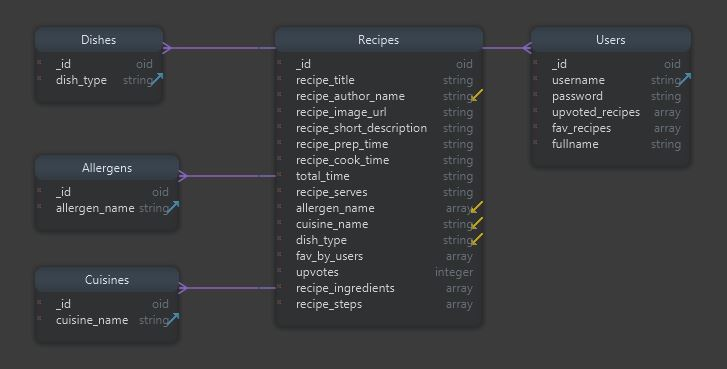
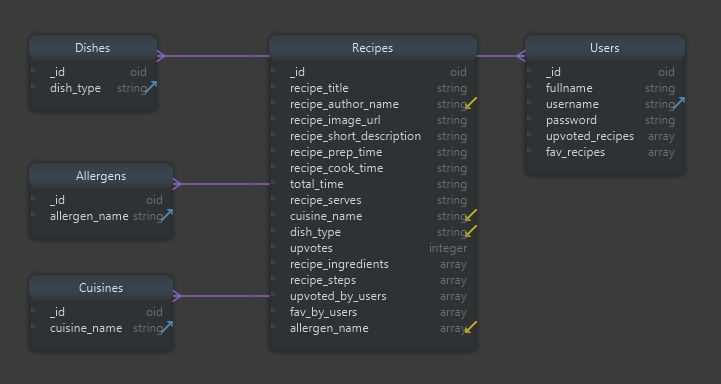
README.md file updated

diff --git a/README.md b/README.md
@@ -3,23 +3,238 @@ This website is my third Milestone project in Full Stack web developer course ru
 It is designed to serve as an online recipe book for the users where they can view, favourite and upvote other recipes. Moreover, they can
 add, edit and delete their own recipes.
 
+## Database Schema
+[Mongodb](https://mlab.com/) was used to create database for the website. The database designing process was based on
+two factors:
+* information to display on the website
+* queries required to display that information
+
+Some queries were easy to foresee and others came into light later on during the process of development. 
+As a result, the database kept evolving over time. For example, it was decided to change the look of *favourite* 
+and *thumbs up* icon for the users who have already favourited or upvoted a recipe. As a result of this need, 
+fields like 'fav_by_users' and 'upvoted_by_users' were added to the database.
+
+Final database schema diagram can be found in the folder **Database Schema > dbschema-cookbook.JPG**
+
+The final database schema consists of five collections recipes, users, allergens, cuisines and dishes. Details
+of each field is given below:
+
+###### Recipes
+
+    Recipes collection includes following fields:
+    
+    * _id (ID of the recipe)
+    * recipe_title (Title of recipe)
+    * recipe_author_name (Username who added the recipe to the website)
+    * recipe_image_url (Recipe image URL)
+    * recipe_short_description (Short description of recipe)
+    * recipe_prep_time (Preparation time for recipe)
+    * recipe_cook_time (Cooking time for recipe)
+    * total_time (Total time for recipe)
+    * recipe_serves (Recipe servings)
+    * allergen_name (List of all the allergens contained in the recipe)
+    * cuisine_name (Cuisine name e.g. English)
+    * dish_type (Type of dish e.g. Starter)
+    * recipe_ingredients (List of all ingredients with their measurements required for recipe)
+    * recipe_steps (List of all steps for making the recipe)
+    * upvotes (Number of upvotes for recipes)
+    * upvoted_by_users (List of usernames who upvoted the recipe)
+    * fav_by_users (List of usernames who favourited the recipe)
+
+###### Users
+
+    Users collection includes following fields:
+    
+    * _id (ID of the user)
+    * fullname (Full name of registered user)
+    * username (Username of registered user)
+    * password (Password of registered user)
+    * upvoted_recipes (List of recipe id's and title upvoted by user)
+    * fav_recipes (List of recipe id's and title favourited by user)
+  
+###### Dishes
+
+    Dishes collection includes following fields:
+    
+    * _id (ID of the dish type)
+    * dish_type (Type of dish e.g. Starter)
+    
+###### Cuisines
+
+    Cuisines collection includes following fields:
+    
+    * _id (ID of the cuisine name)
+    * cuisine_name (Cuisine name e.g. English)
+
+###### Allergens
+
+    Allergens collection includes following fields:
+    
+    * _id (ID of the allergen name)
+    * allergen_name (Allergen name e.g. Peanuts)
+
+
 ## UX
+Wireframes were created using *Pencil* software. 
+
+Wireframes can be found in the folder **Wireframes > cookbook-wireframe.pdf**.
+The wireframe only served as a starting point in building the website as the final website design 
+is quite different to the design in wireframe. 
+
+[Materializecss](http://archives.materializecss.com/0.100.2/) framework version 0.100.2 was used to design the website. 
+
+###### Register/Login Page
+The [tabs](http://archives.materializecss.com/0.100.2/tabs.html) structure of materializecss was used to design sign in
+and sign up forms. Placeholders are used for each input field.
+
+For good user experience, users are not forced to register to visit the website. They can explore the website as a guest user. 
+As a guest user, they have access to view recipes but do not have the privilege to upvote a recipe or add their own recipe until 
+they become a registered user.
+
+###### Navigation
+
+Materializecss [Navbar](http://archives.materializecss.com/0.100.2/navbar.html#right) is used for navigation.
+For good user experience:
+* [Mobile Collapse Button](http://archives.materializecss.com/0.100.2/navbar.html#mobile-collapse) for mobile view
+* [Dropdown Menu](http://archives.materializecss.com/0.100.2/navbar.html#navbar-dropdown) used for categories for filtering all recipes based on that category
+* [Search bar](http://archives.materializecss.com/0.100.2/navbar.html#search-docs) used for search by keywords
+* *Welcome, username* is displayedfor registered users.
+* On clicking, *Welcome, username* registered user has option to go to *My recipes*, *Favourite recipes* and *Logout*
+* Sign in and Sign up is displayed for guest users.
+* Clicking, on *sign in* takes the user to login page with *sign in* tab active.
+* Clicking on *sign up* takes the user to login page with *sign up* tab active
+
+###### Home Page
+Home page displays all available recipes on the website.
+For good user experience following features are added:
+* [pagination](http://archives.materializecss.com/0.100.2/pagination.html) is used
+* maximum 8 recipes are displayed per page
+* range of recipes displayed from the total number is shown on each page
+* Materializecss [card](http://archives.materializecss.com/0.100.2/cards.html#reveal) are used to display recipes
+* All recipes are sorted according to number of upvotes in descending order
+* Favourite and upvote icon displayed to save the recipe as favourite recipe or upvote a recipe (for registered users only)
+* Clicking on *View the recipe* takes the user to page with detailed view of recipe.
+* Page is made responsive by allowing four recipes per row on desktop view, two per row on tablets and one per row on mobile.
+
+###### Add a Recipe
+For good user experience, following features are added:
+* Easy to follow format of form
+* Placeholders are used to indicate what information should be entered in the input field
+* Indicated that all fields are required
+
+###### Edit a Recipe
+For good user experience, following features are added:
+* features in *Add a recipe* applies here as well
+* input fields are populated to display user existing information of recipe
+
+###### Manage Categories
+For good user experience, following features are added:
+* Display number of recipes in a category
+* Add/Edit/delete new category
+* Disallow user to add/edit/delete a recipe if it is not empty
+
+###### Recipe Page
+For good user experience, following features are added:
+* Allow user to edit, delete, upvote and favourite a recipe
+* Display important recipe information e.g. ingredients, method, cook time, number of upvotes etc
+* Display to the user if they have already upvoted the recipe
+* Display to the user is they have already favourited the recipe
+* Allow user to remove the recipe from favourites by clicking icon again
+* Tooltip is used to display the icon function and status.
+
 #### User Stories
 
-###### User Story 
-As a user, I can see the summary of all recipes on website.
+###### User Story 1
+I can visit the website as a guest user.
 
-###### User Story 
-As a user, I can filter to see the desired recipe.
+###### User Story 2
+I can sign up and then sign in as a registered user.
 
-###### User Story 
-As a registered user, I can upvote other recipes and save my favourite recipes. 
+###### User Story 3
+I get an error message explaining me why I am unable to sign in or sign up.
 
-###### User Story 
-As a registered user, I can add/edit my own recipe to the website. 
+###### User Story 4
+I am able to log out.
+
+###### User Story 5
+I am able to add, edit or delete a recipe.
+
+###### User Story 6
+I am unable to edit or delete other user's recipes.
+
+###### User Story 7
+I am able to upvote other users recipes but not my own recipes.
+
+###### User Story 8
+I am unable to upvote a recipe more than once.
+
+###### User Story 9
+I am able to add and remove recipe from my favourite recipes.
+
+###### User Story 10
+I am able to see all recipes added by me.
+
+###### User Story 11
+I am able to see all recipes on the website.
+
+###### User Story 12
+I am able to see details of a recipe.
+
+###### User Story 13
+I am able to filter through the recipes based on some category.
+
+###### User Story 14
+I am able to filter through the recipes based on some keywords.
+
+###### User Story 15
+I am able to see the total number of recipes in a category.
+
+###### User Story 16
+I am able to add new dish type or cuisine name.
+
+###### User Story 17
+I am unable to delete or edit a non-empty dish type or cuisine name.
+
+###### User Story 18
+I am able to use the website on my mobile or tablet.
+
 
 ## Features
+Following features are used to satisfy the needs of all users:
+* User 1 can visit the website as a guest user by just clicking CONTINUE button on login page.
+* User 2 can use Sign Up form to register and then Sign In form to sign in as a regsitered user.
+* User 3 can see the error message displayed in following scenarios:
+  * SIGN UP - entering existing username will throw an error message
+  * SIGN IN - entering incorrect username or/and password will throw an error message
+* User 4 can log out by clicking *Welcome, username* and choosing option *logout*.
+* User 5 can click on *Add a recipe* and fill in the form to add recipe. To edit or delete a recipe, user 5
+  can click on *View the recipe* on added recipe card. Then on recipe page, they can click edit or delete button
+  to edit or delete recipe.
+* No user is allowed to edit or delete someone else's recipe, which satisfy needs of User 6.
+* All users can upvote each others recipes but not their own, which satisfy needs of User 7.
+* All users can upvote a recipe once only, which satisfy needs of User 8.
+* All users can add or remove a recipe from their favourite recipes by clicking the *favourite* icon, which satisfy needs of User 9.
+* All users can go to *My recipes* and see the list of all recipes uploaded by them. This satisfy needs of User 10.
+* All users can go to home page by clicking on *Home* or *My Cookbook* and see the list of all recipes. This satisfy needs of User 11.
+* All users can click on *View the recipe* on recipe card and go to the page with recipe details. This satisfy needs of User 12.
+* All users can filter through the recipes by clicking on *Dish Types*, *Cuisines*, *Author* or *Allergens* and then selecting the category
+  that they want to base their search on. This satisfy needs of User 13.
+* All users can enter keyword(s) in search bar in the navigation to filter recipes by keywords. This satisfy needs of User 14.
+* All pages with recipe display shows the users total number of recipes, range of recipes displayed and page number (if more than one). 
+  This satisfy needs of User 15.
+* All users can add a new dish type or cuisine name. This satisfy needs of User 16.
+* All users can edit or delete an empty dish type or cuisine name. This satisfy needs of User 17.
+* Website is responsive so all users can use it on mobile and tablets. This satisfy needs of User 18.
+
 ## Limitations
+Following features are highly desirable and should be added to the website:
+* Date recipe added so the recipe cards can display *Added today*, *Added less than a month ago* etc
+* Instead of upvotes *Five star rating* with detailed reviews.
+* *Add a recipe* form can be improved to upload a picture from computer.
+* Pictures added to website are made same size.
+* *Add a recipe* form can be improved by adding measurement units field separately.
+
+
 ## Technologies Used
 
 The website is designed using following technologies:
@@ -176,7 +391,6 @@ All tests were carried out manually. Testing process was as follows:
   is redirected to *My Recipes* page.
 * Click on *Delete* icon and verify that recipe is deleted and user is redirected to
   *My Recipes* page.
-
 
 ##### Dev Tools
 ##### HTML and CSS validator
